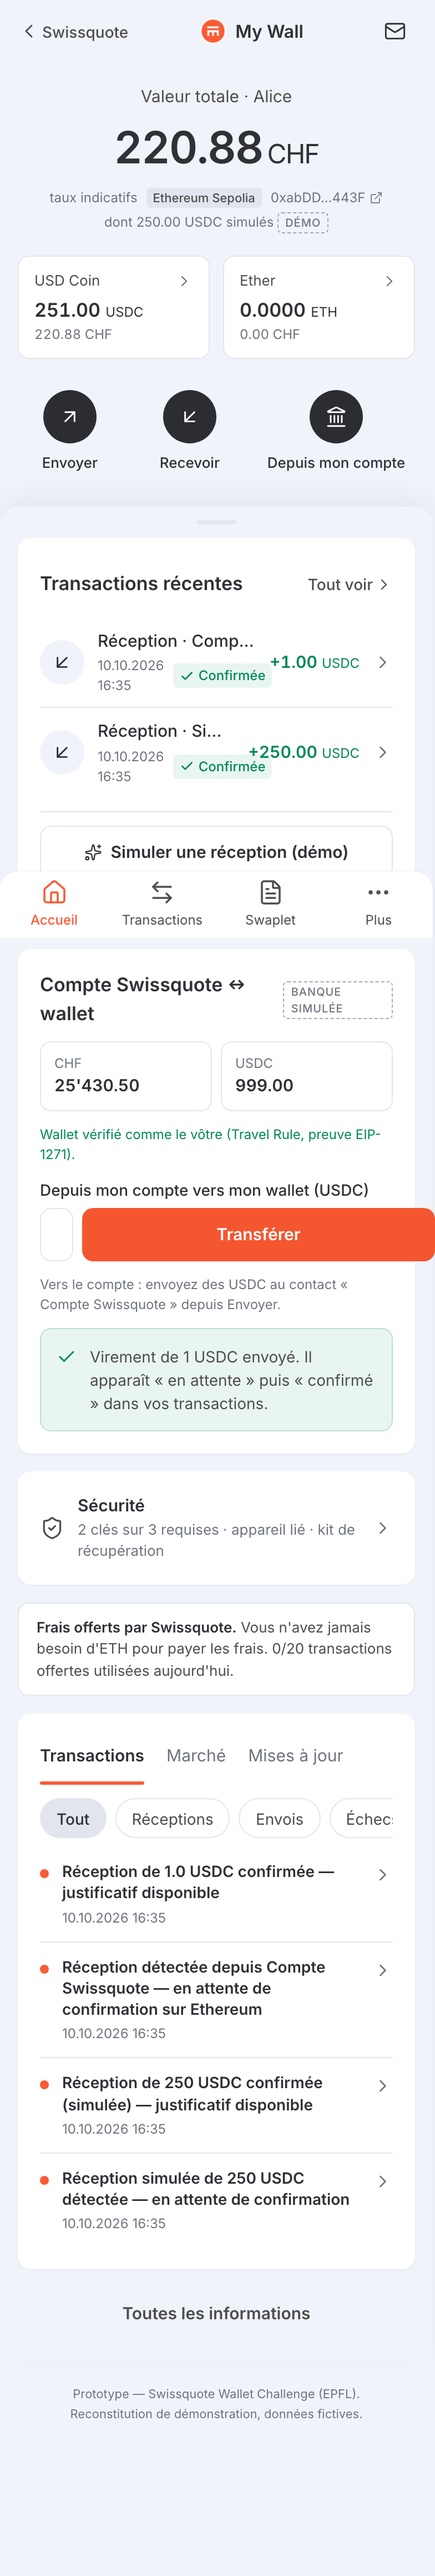
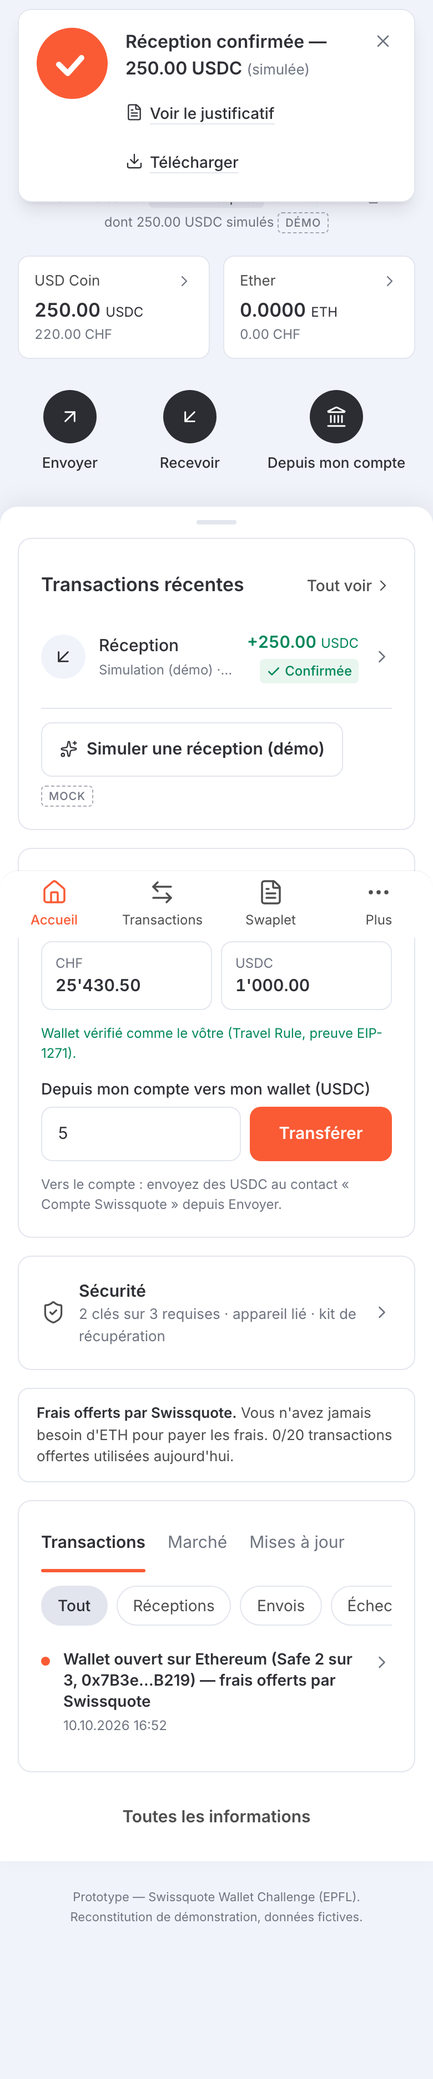
My Wall docs: README (UX, assumptions, real vs mock), demo script, acceptance checklist, threat-model notes on local secrets; screenshots pass 2

diff --git a/scripts/screenshots.ts b/scripts/screenshots.ts
@@ -92,7 +92,7 @@ async function main() {
   await shoot(page, '14-onboarding-kit');
   await page.getByRole('button', { name: /Copier/ }).first().click().catch(() => undefined);
   const [dl] = await Promise.all([page.waitForEvent('download'), page.getByRole('button', { name: /Enregistrer dans le cloud/ }).click()]);
-  await dl.saveAs(path.join(OUT, '..', 'cloud-backup-sample.json')).catch(() => undefined);
+  await dl.cancel().catch(() => undefined);
   await page.getByRole('button', { name: 'Ouvrir My Wall' }).click();
   await page.waitForURL('**/wallet');
 

diff --git a/apps/web/src/sq/SqMarkets.tsx b/apps/web/src/sq/SqMarkets.tsx
@@ -39,7 +39,7 @@ export default function SqMarkets() {
   }, [reduced, filter]);
 
   return (
-    <div>
+    <div className="mx-auto max-w-[880px]">
       <SqMobileTop />
       <Tabs
         className="mt-1"

diff --git a/docs/DEMO_SCRIPT.md b/docs/DEMO_SCRIPT.md
@@ -1,26 +1,39 @@
-# Demo script (≈ 3 minutes)
+# Demo script (≈ 4 minutes)
 
 **Setup (before the jury arrives)**
-1. `npm run dev` (starts the 3 services + web app). Check the terminal shows a relayer balance > 0.
-2. `npm run reset-demo` for a clean state. `npm run fund-check` (treasury has test USDC + a little gas).
-3. Open Chrome: tab A `http://localhost:5173` (DevTools → device toolbar → iPhone 14, optional), tab B `http://localhost:5173/admin`, tab C `http://localhost:5173/attacker`.
-4. Safety net: the headless run `npm run e2e` (≈ 4 min) proves create → sign → recover on Sepolia without the UI.
+1. `npm run dev` (3 services + web app). The terminal shows the relayer balance (must be > 0).
+2. `npm run reset-demo` for a clean state; `npm run fund-check` (treasury test USDC + a little gas).
+3. Chrome: tab A `http://localhost:5173` in DevTools device mode **390×844** (or a real phone on the same Wi-Fi via `vite --host`), tab B `http://localhost:5173/admin`, tab C `http://localhost:5173/attacker`.
+4. Safety net: `npm run e2e` (≈ 3.5 min) proves create → sign → recover on Sepolia without the UI.
 
-| # | Time | What to show | What to say |
-|---|---|---|---|
-| 1 | 0:00 | Tab A → sign in as **alice** → *Create my wallet* → Touch ID → password + 3 questions → progress list → **recovery kit** (download kit + save to cloud) | "Alice is already a KYC'd Swissquote client. Her wallet is created in 30 s: device key on her phone behind Face ID, Swissquote co-signer, recovery key split in 3. A Safe 2-of-3, deployed on Ethereum — Swissquote paid the gas." |
-| 2 | 0:35 | Wallet → **Swissquote account card** → *Transfer* 10 USDC | "Her wallet was registered as hers with an on-chain EIP-1271 proof: no Travel Rule friction. Real USDC on Sepolia." |
-| 3 | 0:55 | *Send* → Bob → 2 USDC → **plain-language review** + checks → *Confirm with Touch ID* → Confirmed + Etherscan | "Plain words, fees offered by Swissquote, her wallet has zero ETH. Touch ID is bound to this exact transaction; Swissquote co-signs after its checks." |
-| 4 | 1:20 | *Send* → 1 USDC to a **new address** (paste any 0x… address) → **reinforced** → code from **Inbox** → 30 s cooling-off → tab B **Approve** → executed | "New recipient (or ≥ 50 USDC, or any dApp): email code, cooling-off, four-eyes approval by compliance — off-chain. Swissquote still holds only one key." *(With ≥ 60 USDC in the treasury you can show the amount threshold instead: 60 USDC to Bob.)* |
-| 5 | 1:45 | *Send* → **Sanctioned address (demo)** → refused with explanation | "Sanctions screening: Swissquote refuses to co-sign. It can block — it can never move funds." |
-| 6 | 1:55 | Settings → *Simulate: I lost this device* → *I lost my device* → liveness ✓, questions, upload the **paper kit PNG** → new passkey → **2-min delay** with cancel button (show Inbox) → completed → *old key revoked on-chain* → send 1 USDC to Bob | "Recovery: independent Swiss trustee releases its share after video-ident; paper kit + partner rebuild the recovery key on the new phone; old phone revoked on-chain." *(While waiting the 2 min, do step 7.)* |
-| 7 | 2:15 | Tab C (attacker) → steps 1, 2, 3 | "A thief with her phone AND her email: no Face ID → Swissquote won't co-sign. Recovery: liveness fails, no paper kit, SIM swap → refused, and Alice is alerted in her bank account." |
-| 8 | 2:40 | Terminal: `npm run escape-hatch -- --device-key … --paper … --cloud … --to 0x…` | "And if Swissquote disappears? Alice's two keys — device + paper/cloud — move her funds with only a public RPC. Also works in app.safe.global." |
-| 9 | 2:55 | Business slide (docs/BUSINESS.md) | "Free + Premium 5 CHF, spreads, retention: assets stay one click from trading. ~3 M CHF/year under conservative assumptions." |
+> Test-USDC budget: the treasury holds ~19 USDC. The amount threshold (≥ 50 USDC) is therefore shown with the policy table; the reinforced level is demonstrated live with a **new recipient** (same checks: email code, cooling-off, four-eyes).
 
-**Escape hatch prep** (after step 6, from the *current* device — the old device key is revoked): Settings → *Export encrypted device key*; keep the downloaded `sq-wallet-paper-kit-*.png` and `sq-wallet-cloud-backup-*.json`. The device key's address needs ~0.001 Sepolia ETH for gas (no Swissquote sponsoring in this scenario): `npm run fund-check -- --tip <device key address> 0.002` simulates "Alice bought a little ETH anywhere".
+## Phone (390×844)
+| # | Show | Say |
+|---|---|---|
+| 1 | Sign in as **alice** → `/sq/markets`: reconstructed Swissquote app, SMI list moving | "Alice is a Swissquote client. My Wall lives inside the app she already uses." |
+| 2 | Pull up the **"Mon wallet"** tab → panel slides up → *Activer My Wall* | "One gesture from her trading app." |
+| 3 | Activation: *document de démonstration* → *Envoyer* → passkey (Touch ID) → password: first **too short** (refused, live checklist) then valid → 3 questions (show that a chosen question **disappears** from the other lists) → creation (progress list, Etherscan link) → **recovery kit without QR**: masked code, *Afficher* 30 s, *Imprimer*, cloud backup | "Device key on her phone behind Face ID, Swissquote co-signer, recovery key split in 3. Gas paid by Swissquote." |
+| 4 | My Wall home: big balances; scroll → the white sheet slides over, compact bar "My Wall · … CHF" | "Balances first, everything else in the sheet." |
+| 5 | *Simuler une réception (démo)* → grey "en attente" (no check) → **orange disc + check** "Réception confirmée — 250 USDC" | "The check only appears once confirmed." |
+| 6 | *Voir le justificatif* → then **Swaplet → Documents**: same receipt, PDF download | "Receipts are derived from the transaction — never duplicated, never contain secrets." |
+| 7 | *Depuis mon compte* → 5 USDC → pending → confirmed (real Sepolia, Etherscan) | "Wallet pre-verified with an on-chain EIP-1271 proof: no Travel Rule friction." |
+| 8 | Informations: 3 categories, unread dots, open one, back (filters kept) | |
+| 9 | Sécurité: *Afficher temporairement* the device key (password + Touch ID, 30 s countdown, re-mask) → export encrypted backup → *Vérifier* with a **wrong password** → refused | "Three different secrets, three different exposures. No seed phrase." |
+| 10 | *Envoyer* → Bob → 2 USDC: plain-language review, checks, *Confirmer avec Touch ID* → confirmed, zero ETH in the wallet | |
+| 11 | *Envoyer* → a **new address** → 1 USDC → reinforced: email code (Inbox) → cooling-off → tab B *Valider* → confirmed | "Four-eyes off-chain: Swissquote still holds a single key." |
+| 12 | *Envoyer* → *Adresse sanctionnée (démo)* → refusal explained | "Swissquote can block, never move funds." |
+| 13 | Paramètres → *Simuler : j'ai perdu cet appareil* → recovery: liveness ✓, questions, **type the paper code** (show a typo → "Le groupe 5 semble erroné") → new passkey → 2-min delay with cancel (Inbox) | During the delay: step 14 |
+| 14 | Tab C attacker: steps 1, 2, 3 — all refused, Alice alerted | "Phone + email are not enough." |
+| 15 | Recovery completes → old device revoked on-chain → send 1 USDC from the new device | |
+| 16 | Terminal: `npm run escape-hatch -- --device-key <backup.json> --paper "<code>" --cloud <cloud.json> --to 0x…` | "If Swissquote disappears, Alice's two keys still move her funds." |
 
-**Fallbacks**
-- Touch ID not available: Chrome DevTools → *More tools → WebAuthn* → *Enable virtual authenticator environment* → add a "internal" authenticator with user verification.
-- RPC slow: services automatically fall back to a second public RPC.
-- UI problem: run `npm run e2e` live — it prints Etherscan links for every step.
+## Desktop (1440×900)
+Same story from the **"Mon wallet" button** next to the account icon: multi-zone grid (balances band with assets side by side, transactions table, account ↔ wallet panel, 3 information panels), Swaplet with the side preview.
+
+## Extra cases to show if asked
+Password too short · question unavailable elsewhere · wrong unlock password ("Il vous reste 4 essais", 30 s wait after 5) · reveal expiring · wrong backup password / altered backup file · pending transaction without check.
+
+**Escape-hatch prep**: after step 15, from the current device — Sécurité → *Télécharger une sauvegarde chiffrée*; keep the cloud backup file and the paper code. The device key address needs ~0.001 Sepolia ETH (no sponsoring without Swissquote): `npm run fund-check -- --tip <device key address> 0.002`.
+
+**Fallbacks**: no Touch ID → Chrome DevTools › More tools › WebAuthn › enable virtual authenticator. RPC slow → automatic fallback to a 2nd public RPC. UI issue → run `npm run e2e` live.

diff --git a/README.md b/README.md
@@ -1,8 +1,10 @@
-# SQ Wallet — prototype
+# My Wall — prototype
 
-**The self-custody wallet a Swiss bank could launch.** The client holds the keys; Swissquote adds bank-grade security as a **co-signer that can never move funds alone**; recovery works even if Swissquote disappears.
-A **Safe 2-of-3 smart account on Ethereum Sepolia**: device key (passkey-protected) + Swissquote co-signer + a recovery key split 2-of-3 (paper · encrypted cloud · independent Swiss trustee).
-Built for the *Swissquote Wallet Challenge* (EPFL hackathon, Oct. 2026). Not affiliated with Swissquote; no Swissquote trademarks are used.
+**The self-custody wallet a Swiss bank could launch, one tap away from the Swissquote app.** The client holds the keys; Swissquote adds bank-grade security as a **co-signer that can never move funds alone**; recovery works even if Swissquote disappears.
+A **Safe 2-of-3 smart account on Ethereum Sepolia**: device key (passkey-protected) + Swissquote co-signer + a recovery key split 2-of-3 (paper code · encrypted cloud backup · independent Swiss trustee).
+Built for the *Swissquote Wallet Challenge* (EPFL hackathon, Oct. 2026). Prototype with fictitious data; the Swissquote logo is used only to stage the challenge demo (reconstructed app screens are labelled as such).
+
+![My Wall — desktop](docs/design/screens/20-wallet-desktop.png)
 
 ---
 
@@ -22,11 +24,13 @@ On first start the services generate their keys and print the **relayer address*
 | `npm run dev` | Starts `sq-cosigner` (:4001), `recovery-partner` (:4002), `sq-bank` (:4003) and the web app (:5173) |
 | `npm run e2e` | **Headless end-to-end run on Sepolia**: create → sign → attacker refused → recover (delay) → old key revoked on-chain → sign with the new key. Prints Etherscan links |
 | `npm run escape-hatch -- --device-key … --paper … --cloud … --to 0x…` | Moves all funds with **device key + recovery key only** — no Swissquote server |
-| `npm test` | Unit tests of the policy engine |
+| `npm test` | Unit tests: policy engine, recovery code, question picker, answer normalisation, password policy (22 tests) |
+| `npm run screenshots` | Playwright captures at 3 sizes (virtual passkey authenticator) |
 | `npm run fund-check` | Relayer / treasury balances; tops up treasury gas |
 | `npm run reset-demo` | Resets demo state (keeps the funded keys) |
 
-Demo routes: `/` client app (mobile-first) · `/admin` Swissquote back-office (MOCK) · `/attacker` scripted attack · `/recover` "I lost my device" · `/inbox` mock email/SMS.
+Demo routes: `/sq` reconstructed Swissquote app (entry: **"Mon wallet" pull-up tab** on mobile/tablet, **"Mon wallet" button** on desktop) · `/wallet` My Wall · `/wallet/transactions` · `/wallet/swaplet` (receipts) · `/wallet/info` · `/wallet/security` · `/recover` · `/admin` Swissquote back-office (MOCK) · `/attacker` scripted attack · `/inbox` mock email/SMS.
+The UI is in **French**; code and docs are in English. `npm run screenshots` captures every key screen at 390×844, 820×1180 and 1440×900 into `docs/design/screens/`.
 See **[docs/DEMO_SCRIPT.md](docs/DEMO_SCRIPT.md)** for the 3-minute demo.
 
 ---
@@ -96,6 +100,12 @@ Each service is a **separate process with its own `data/` directory** (JSON file
 | Recovery partner (independent Swiss trustee) | **MOCK** service, separate process |
 | HSM for K2 | **MOCK** = JSON file |
 | Headless e2e client (no browser passkey) | Demo-only shortcut, flagged `headless` |
+| Identity-document check at activation (images processed locally, never sent) | **MOCK** (outcome only stored in `sq-bank`) |
+| Transaction receipts (PDF, jsPDF, client-side) and receipts index (idempotent `docId`) | **REAL** logic |
+| "Simuler une réception" (250 USDC, no blockchain tx) | **MOCK**, flagged "simulée" everywhere |
+| Reconstructed Swissquote screens, market data, crypto news | **MOCK** (fictitious) |
+| Recovery code (paper share ①) as checksummed base32 text — no QR code | **REAL** encoding |
+| Device-key backup: ethers keystore v3 (scrypt + AES-128-CTR + MAC) | **REAL** library |
 
 Every mocked element carries a visible **MOCK** badge in the UI.
 
@@ -150,6 +160,22 @@ Free tier + **Premium ~5 CHF/month** (higher limits, gas included, priority huma
 - **Gasless**: the Safe never holds ETH; Swissquote's relayer submits `execTransaction` and pays gas (also for Safe deployment). Anti-abuse: KYC-linked wallets only, 20 sponsored tx/day/client, gas cap per tx, sponsoring only if the policy engine approves. Production: ERC-4337 paymaster or EIP-7702.
 - **Compliant dApp interaction**: dApp whitelist (Uniswap, Aave on Sepolia), sanctions screening (refusal shown), plain-language simulation, **red alert on unlimited `approve`**, reinforced checks for every dApp interaction and above the threshold.
 - **Recovery that refuses a thief with phone + email**: `/attacker` page and `npm run e2e` step 3b.
+
+## My Wall UX highlights
+- **Entry from the Swissquote app**: pull-up "Mon wallet" tab (swipe or tap, keyboard accessible) on touch devices; "Mon wallet" button next to the account icon on desktop.
+- **Unlock** = wallet password (decrypts the device key locally, 5 attempts then a 30 s wait) **then** passkey. A recovery code or private key is never asked to open the wallet.
+- **Activation in 7 steps**: welcome → ID document (simulated) → passkey → password (≥ 15 chars, ≥ 5 letters incl. upper + lower, ≥ 2 digits, ≥ 1 special, no name / birth date — live checklist) → 3 distinct questions out of 15 (answers normalised and scrypt-hashed by the partner, never stored in clear) → wallet creation → recovery kit **without QR code** (masked code, 30 s reveal, print sheet, copy) + encrypted cloud backup.
+- **Transactions**: statuses détectée → en attente → confirmée / échouée (confirmed = 1 block on Sepolia, `CONFIRMATIONS` env); orange check animation **only** on confirmation; PDF receipt (reference `MW-YYYYMMDD-<hash8>`, fees, Europe/Zurich time, full addresses, names only when known, no secrets) available from the transaction and from **Swaplet → Documents** without duplicates.
+- **Keys & security**: public address / device private key / recovery code clearly separated; secrets revealed 30 s after password + passkey re-authentication, re-masked on expiry, page exit or background; encrypted device-key backup export + verification (wrong password, altered file, other wallet).
+- **Informations** in 3 stable categories (my transactions · crypto market (demo content) · My Wall updates with "Action requise"), read/unread, filters kept in the URL.
+
+## Assumptions (documented, not blocking)
+- **Swaplet**: its final role is not defined yet; in the demo it is My Wall's space for exchanges and receipts — "Documents" is complete, "Échanger" is shown as *Prochaine version*.
+- Keys: K1 device / K2 Swissquote / K3 recovery (split 2-of-3); there is **no 12/24-word seed phrase**. Custody model unchanged (2-of-3, non-custodial).
+- Encryption is real (ethers keystore, WebCrypto AES-GCM + PBKDF2); identity verification is simulated (future FINMA-approved video-ident provider, retention and access to be defined).
+- The recovery code is also kept **encrypted with the wallet password** on the device so it can be shown again after re-authentication; the client can delete it (trade-off in THREAT_MODEL.md).
+- Password rules are a UX policy, not a guarantee: the key is also protected by the passkey and Swissquote's co-signature; production needs server-side attempt limiting and session protection.
+- Network confirmation = 1 block on Sepolia. Swissquote home screen is **extrapolated** from the reference; market data and crypto news are fictitious.
 
 ## Repository layout
 ```

diff --git a/docs/PLAN.md b/docs/PLAN.md
@@ -44,3 +44,26 @@ Priority: the **create → sign → recover** journey must work end-to-end on Se
 - ✅ **Full web UI flow passed on real Sepolia** with real USDC (virtual WebAuthn authenticator) — tx links in the README.
 - ✅ Robustness fixes found by the real run: relayer nonce resync after external use of the key; deploy refuses to re-bind an existing wallet to a new device (→ recovery).
 - ⏳ Real Touch ID to be tried by Noa in Chrome.
+
+## My Wall redesign (spec MY_WALL_REDESIGN.md) — acceptance criteria
+- [x] My Wall everywhere; provided logo used unmodified; Swissquote palette, buttons, line icons, radii
+- [x] No emoji left; Lucide line icons
+- [x] Demo starts in the reconstructed Swissquote app; pull-up tab (swipe + tap + keyboard); desktop button next to the account icon
+- [x] Distinct mobile / tablet / desktop layouts with the same functions (checked at 390, 820, 1440 px)
+- [x] Dominant balances; content sheet sliding over them; sticky compact bar; desktop multi-zone grid
+- [x] Simulated ID check (accepted, refused, status in profile), images processed locally only
+- [x] Password: 15 chars, 5 letters (upper + lower), 2 digits, 1 special, no name / birth date; live checklist; unit tests
+- [x] 3 distinct questions out of 15; answers normalised and scrypt-hashed by the partner; "never sufficient alone"
+- [x] No QR code anywhere for keys or backups (text recovery code with per-group check characters)
+- [x] Secrets masked, revealed 30 s after re-authentication, auto re-mask; copy with warning
+- [x] Encrypted keystore export + import (wrong password, altered file, other wallet) with clear messages
+- [x] Statuses détectée / en attente / confirmée / échouée; orange disc + check only on confirmation; reduced-motion variant
+- [x] Complete PDF receipt, no invented name nor secret; from the transaction AND Swaplet; no duplicate (idempotent docId)
+- [x] Swaplet → Documents: search, filters, preview, empty / loading / error states
+- [x] Information in 3 stable categories, read / unread, filters kept (URL)
+- [x] Keyboard, mouse and touch; visible orange focus ring; 44 px targets
+- [x] `npm run e2e` green on Sepolia after the redesign; `npm run reset-demo` resets services + browser state (on next load)
+- [x] Screenshots in `docs/design/screens/` at 3 sizes (2 comparison passes done)
+
+Verified in a real browser (Playwright + virtual WebAuthn, real Sepolia): onboarding, unlock + wrong-password counter, recovery via encrypted cloud backup, recovery-code typo detection, standard send, reinforced send (email code + admin approval), key reveal, backup export / import error cases, PDF receipt content.
+Bugs found and fixed during these runs: session marked unlocked before the passkey check; recovery-kit step skipped by the route guard; relayer nonce desync after external use of its key; deploy re-binding an existing wallet.

diff --git a/POUR_NOA.md b/POUR_NOA.md
@@ -102,3 +102,32 @@ La démo est **remise à zéro et lancée** : ouvre http://localhost:5173 (utili
 2. « Sign in » → « Create my wallet » → « Create passkey » → pose ton doigt sur Touch ID.
 3. Continue jusqu'au kit de récupération (télécharge les 2 fichiers et garde-les : ils servent pour la démo « Swissquote disparaît »).
 **Comment me répondre :** tape `touch id ok`, ou copie-colle le message d'erreur affiché.
+
+---
+
+## ✅ Refonte « My Wall » terminée — 17:10
+
+Tout ton cahier des charges est en place :
+- **l'app Swissquote reconstituée**, avec la **languette « Mon wallet »** sur téléphone et le **bouton « Mon wallet »** sur ordinateur ;
+- **My Wall en français**, avec les soldes en grand et le volet qui remonte ;
+- **l'activation en 7 étapes** : pièce d'identité simulée, mot de passe de 15 caractères, 3 questions parmi 15, kit **sans QR code** ;
+- **les justificatifs PDF**, aussi rangés dans **Swaplet → Documents** ;
+- **les Informations** en 3 catégories ;
+- **Clés et sécurité** : révélation 30 secondes, sauvegarde chiffrée.
+
+J'ai tout vérifié dans un navigateur sur le vrai réseau de test, et le parcours complet `npm run e2e` passe toujours. Les captures sont dans `docs/design/screens/`, et le nouveau scénario de démo dans `docs/DEMO_SCRIPT.md`.
+
+## [NON BLOQUANT] Comment lancer la démo (version My Wall) — 17:10
+1. Ouvre **Terminal** et tape : `cd ~/EPFL-BSA-HACKATHON` puis Entrée.
+2. Tape `npm run dev` puis Entrée. Attends ≈ 10 secondes. **Laisse la fenêtre ouverte.**
+3. Dans **Chrome**, va sur **http://localhost:5173** et clique « Se connecter » (identifiant `alice`, n'importe quel mot de passe).
+4. Pour voir la version téléphone : clic droit → « Inspecter » → icône téléphone en haut à gauche → choisis « iPhone 14 ». Puis **tire la languette « Mon wallet »** en bas de l'écran.
+5. Suis l'activation : document de démonstration → **Touch ID** → mot de passe (ex. `Lac-Leman-2026-bleu!`) → 3 questions → kit (clique « Afficher » puis « Imprimer » ou « Copier », et « Enregistrer dans le cloud »).
+   Pour repartir de zéro : 2e Terminal → `cd ~/EPFL-BSA-HACKATHON` → `npm run reset-demo`, puis recharge la page.
+
+## [NON BLOQUANT] À tester toi-même : Touch ID — 17:10
+Je n'ai pu tester Touch ID qu'en simulation. Fais l'étape 5 ci-dessus sur ton Mac.
+**Comment me répondre :** tape `touch id ok`, ou copie-colle le message d'erreur affiché.
+
+**Si tu bloques, copie-colle ce prompt à Claude (dans le chat) :**
+> Je fais un hackathon. Sur mon Mac, j'ai lancé `npm run dev` dans le dossier ~/EPFL-BSA-HACKATHON, puis ouvert http://localhost:5173 dans Chrome. Quand je clique « Créer la passkey », il se passe ceci : <colle le message>. Explique-moi pas à pas comme à une débutante sur Mac.

diff --git a/docs/THREAT_MODEL.md b/docs/THREAT_MODEL.md
@@ -43,7 +43,14 @@ Swissquote can **block** (refuse to co-sign, e.g. sanctions) but can **never mov
 | T11 | **Replay of a passkey assertion** | No | — | Challenge = SafeTx hash which includes the Safe **nonce** → valid for exactly one transaction; WebAuthn signature counter tracked. |
 | T12 | **Device limit bypass** (attacker adds a 3rd device) | No | — | Server refuses more than 1 mobile + 1 computer; adding a device requires an existing device; a new device registered during recovery stays *pending* until the rotation completes. |
 
-## 4. Known limitations (prototype)
+## 4. Local secrets on the device (My Wall UI)
+- **Unlock** requires the wallet password (scrypt keystore decrypted locally; 5 attempts then a 30 s wait in the demo) **and** a passkey assertion; the session is only marked unlocked after both.
+- **Recovery code kept on the device**: share ① is stored **encrypted with the wallet password** (AES-GCM, PBKDF2) so that it can be shown again after re-authentication. Trade-off: an attacker with the device **and** the password **and** the client's cloud backup (also password-encrypted) could rebuild K3 — the same material as the escape hatch. Mitigations: re-authentication with passkey to reveal, 30 s display, the client can delete it from the device after printing; production would keep it only until the client confirms the paper kit.
+- **Secrets display**: never written to logs, history, notifications or storage in clear; re-masked on expiry, page exit and when the app goes to the background; clipboard cleared after 30 s (best effort).
+- **Security questions**: 3 distinct out of 15, answers normalised then scrypt-hashed with a per-answer salt at the partner; low weight in the risk score, never sufficient alone.
+- **Device-key backup file**: ethers keystore v3 (scrypt + AES-128-CTR + MAC) plus a SHA-256 of the keystore to report accidental corruption before trying the password.
+
+## 5. Known limitations (prototype)
 
 - K2 and the relayer key are JSON files (MOCK HSM). Liveness, SMS/email, sanctions feed, KYC and the recovery partner are mocks (clearly labeled in the UI).
 - The headless e2e demo client skips the passkey step (no browser); the UI always uses real passkeys.
